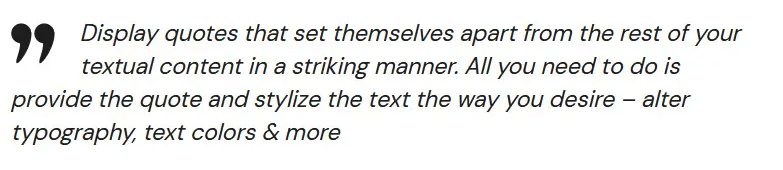
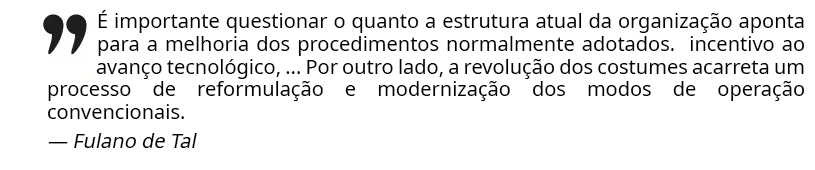
novos blockquotes e criação centralizada de blockquote padrão e de `destaque`.

Changed region(s): [[0.0, 0.0588, 1.0, 0.4706], [0.0, 0.4706, 1.0, 0.7059], [0.0, 0.7059, 0.4598, 0.8824]]

diff --git a/TODO.ia.md b/TODO.ia.md
@@ -345,3 +345,136 @@
     - ausência de dependência de heurísticas frágeis de user-agent.
 
   - **Aceite:** mobile e desktop DEVEM possuir a mesma capacidade de impressão IEEE, carregada somente na fase pós-crítica/idle, sem bloquear a página, sem regressão funcional ou visual e sem mecanismos artificiais de evasão de métricas.
+
+- [ ] **Criar novos templates visuais de `blockquote` a partir das evidências e centralizar aliases padrão**
+  - **Objetivo**
+    - Na pasta de evidências, usar `e1.png` a `e5.png` como referência visual para criar novos estilos/templates de `blockquote`, preservando fidelidade ao modelo sem interferir na impressão IEEE.
+    - Antes de implementar, inspecionar templates, classes, aliases, configuração central, pipeline de build e regras existentes para evitar colisão, duplicação ou regressão.
+
+  - **1. Templates derivados das evidências**
+    - Criar **4 modelos distintos**:
+      - `e1.png` + `e2.png` → **um único template**, sendo dois exemplos do mesmo estilo com variação/customização de cor;
+      - `e3.png` → um template próprio;
+      - `e4.png` → um template próprio;
+      - `e5.png` → um template próprio.
+    - Gerar para cada modelo um **nome semântico, estável e único**, que:
+      - NÃO colida com templates/classes/aliases existentes;
+      - NÃO dependa de nomes `e1`, `e2`, etc.;
+      - represente adequadamente sua linguagem visual.
+    - `e1/e2` DEVEM compartilhar a mesma estrutura visual e permitir **cor customizável**, conforme demonstrado pelas duas evidências.
+    - Em `e3.png`, preservar explicitamente o **pequeno recuo à esquerda em relação ao alinhamento normal dos demais parágrafos**.
+    - Em `e4.png` e `e5.png`, **desconsiderar o fundo da screenshot como parte do modelo**; reproduzir apenas o `blockquote` e seus elementos próprios.
+
+  - **2. Tipografia e adornos**
+    - Mesmo que as referências utilizem outras fontes, os templates DEVEM utilizar a **font-family já definida pelo projeto/repositório**.
+    - Somente adornos estritamente decorativos PODEM utilizar tipografia/forma específica quando necessária para reproduzir o modelo.
+    - NÃO introduzir nova fonte global apenas para aproximar as evidências.
+
+  - **3. Exclusivamente visual para web**
+    - Esses templates são **somente estilos visuais da apresentação web**.
+    - Em impressão, preview de impressão e geração equivalente, os estilos particulares de `blockquote` NÃO DEVEM prevalecer.
+    - O estilo/formatação IEEE já normatizado DEVE ter precedência absoluta na impressão.
+    - Garantir que nenhum template novo introduza cor, fundo, margem, adorno, tipografia ou estrutura visual que contamine o resultado IEEE.
+
+  - **4. Configuração centralizada de templates padrão**
+    - Criar, se ainda não existir, ou ampliar o mecanismo central existente para definir pelo menos:
+      - **template primário** de `blockquote`;
+      - **template secundário/destaque**.
+    - NÃO criar configuração paralela se já houver mecanismo canônico equivalente.
+
+    - Sem configuração específica no conteúdo:
+
+      ```text
+      blockquote comum → template primário
+      blockquote "destaque" → template secundário configurado
+      ```
+
+    - Valores padrão obrigatórios:
+      - **primário** → template equivalente a `e3.png`;
+      - **secundário / `destaque`** → `futuristic`.
+
+  - **5. `destaque` como alias dinâmico**
+    - `destaque` NÃO DEVE representar um template visual fixo.
+    - Deve funcionar como **alias configurável** para o template definido centralmente como secundário.
+    - Assim:
+
+      ```text
+      destaque → configuração central → template concreto
+      ```
+
+    - Alterar futuramente o alias central de `destaque` DEVE atualizar automaticamente todos os `blockquote` que o utilizem, sem editar cada página.
+
+  - **6. Primário também dinâmico**
+    - O template primário DEVE seguir o mesmo princípio:
+      - `blockquote` sem template explícito usa o alias/configuração primária;
+      - alterar a configuração central DEVE refletir automaticamente em todas as páginas que dependam do padrão.
+
+  - **7. Uso explícito continua permitido**
+    - A padronização NÃO DEVE impedir que o autor selecione diretamente qualquer template concreto disponível.
+    - A precedência DEVE ser inequívoca:
+
+      ```text
+      template explicitamente informado
+      >
+      alias "destaque", se utilizado
+      >
+      template primário padrão
+      ```
+
+    - Portanto:
+      - sem indicação → primário;
+      - `destaque` → template atualmente apontado pelo alias secundário;
+      - template nominal explícito → usa exatamente esse template.
+
+  - **8. Integração com build**
+    - A resolução dos aliases DEVE ocorrer de forma compatível com o pipeline real do projeto e ser **detectável em build-time**.
+    - Alterar a configuração central do primário ou `destaque` DEVE fazer com que as páginas dependentes sejam automaticamente reconstruídas/regeneradas pelo fluxo oficial.
+    - NÃO armazenar nos conteúdos o template concreto resultante do alias de modo que congele a configuração antiga.
+    - A dependência entre conteúdo e configuração DEVE permanecer rastreável pelo build.
+
+  - **9. Implementação**
+    - Reutilizar arquitetura, tokens, CSS, componentes e mecanismos existentes sempre que equivalentes.
+    - Evitar:
+      - CSS duplicado;
+      - seletores excessivamente específicos;
+      - `!important` sem necessidade comprovada;
+      - estilos inline;
+      - hardcode por artigo;
+      - lógica duplicada entre alias e template.
+    - Separar claramente:
+      - estrutura comum de `blockquote`;
+      - template visual;
+      - parâmetros/customizações;
+      - aliases/configuração central;
+      - overrides exclusivos de impressão IEEE.
+
+  - **10. Validação**
+    - Comparar visualmente cada implementação com sua evidência correspondente.
+    - Validar:
+      - `e1/e2` como um único modelo parametrizável por cor;
+      - fidelidade individual de `e3`, `e4` e `e5`;
+      - recuo específico de `e3`;
+      - ausência do fundo externo de `e4/e5`;
+      - font-family padrão do projeto;
+      - nomes sem colisão;
+      - primário apontando por padrão para o equivalente a `e3`;
+      - `destaque` apontando por padrão para `futuristic`;
+      - troca dos aliases refletindo globalmente após rebuild;
+      - seleção explícita de outros templates funcionando normalmente;
+      - impressão IEEE permanecendo visualmente inalterada.
+
+  - **Critério de aceite**
+    - Concluir somente quando:
+      1. os 4 templates derivados de `e1`–`e5` existirem sem colisão;
+      2. `e1/e2` forem um único template com cor customizável;
+      3. `e3` preservar seu recuo real;
+      4. fundos externos de `e4/e5` não fizerem parte dos templates;
+      5. tipografia seguir o projeto, salvo adornos justificáveis;
+      6. os estilos forem exclusivos da web e não afetarem IEEE;
+      7. existir configuração central de **primário** e **secundário/destaque**;
+      8. o primário apontar inicialmente para o modelo equivalente a `e3`;
+      9. `destaque` apontar inicialmente para `futuristic`;
+      10. ambos funcionarem como aliases dinâmicos resolvidos pelo build;
+      11. alteração central regenerar automaticamente as páginas dependentes;
+      12. templates explícitos continuarem selecionáveis diretamente;
+      13. nenhuma funcionalidade ou estilo existente regredir.
